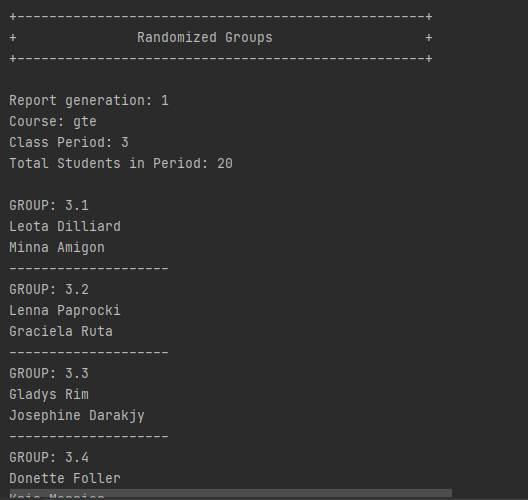
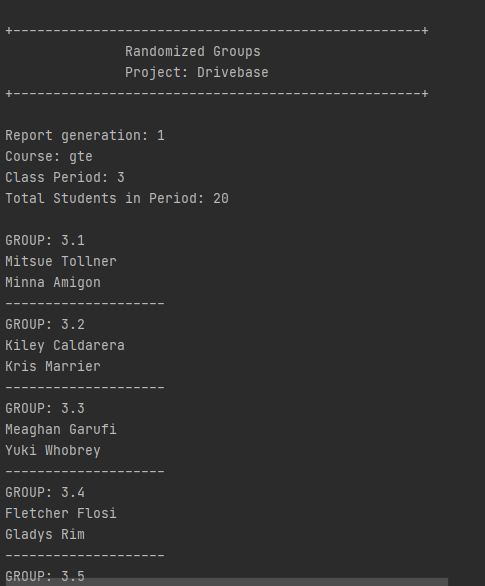
add image

diff --git a/src/GroupManager.java b/src/GroupManager.java
@@ -43,12 +43,12 @@ public class GroupManager {
         System.out.println();
         output.add("\n");
         ConsoleUI.sendMessage("\n+---------------------------------------------------+");
-        ConsoleUI.sendMessage("\n+               Randomized Groups                   +");
-        System.out.printf("\n+                 Project: %s                     +", project);
+        ConsoleUI.sendMessage("\n               Randomized Groups                   ");
+        System.out.printf("\n               Project: %s                     ", project);
         ConsoleUI.sendMessage("\n+---------------------------------------------------+\n\n");
         output.add("\n+---------------------------------------------------+");
-        output.add("\n+               Randomized Groups                   +");
-        output.add("\n+              Project: " + project + "                   +");
+        output.add("\n              Randomized Groups                   ");
+        output.add("\n              Project: " + project);
         output.add("\n+---------------------------------------------------+\n\n");
         System.out.println("Report generation: " + shuffled);
         output.add("Report generation: " + shuffled + "\n");
